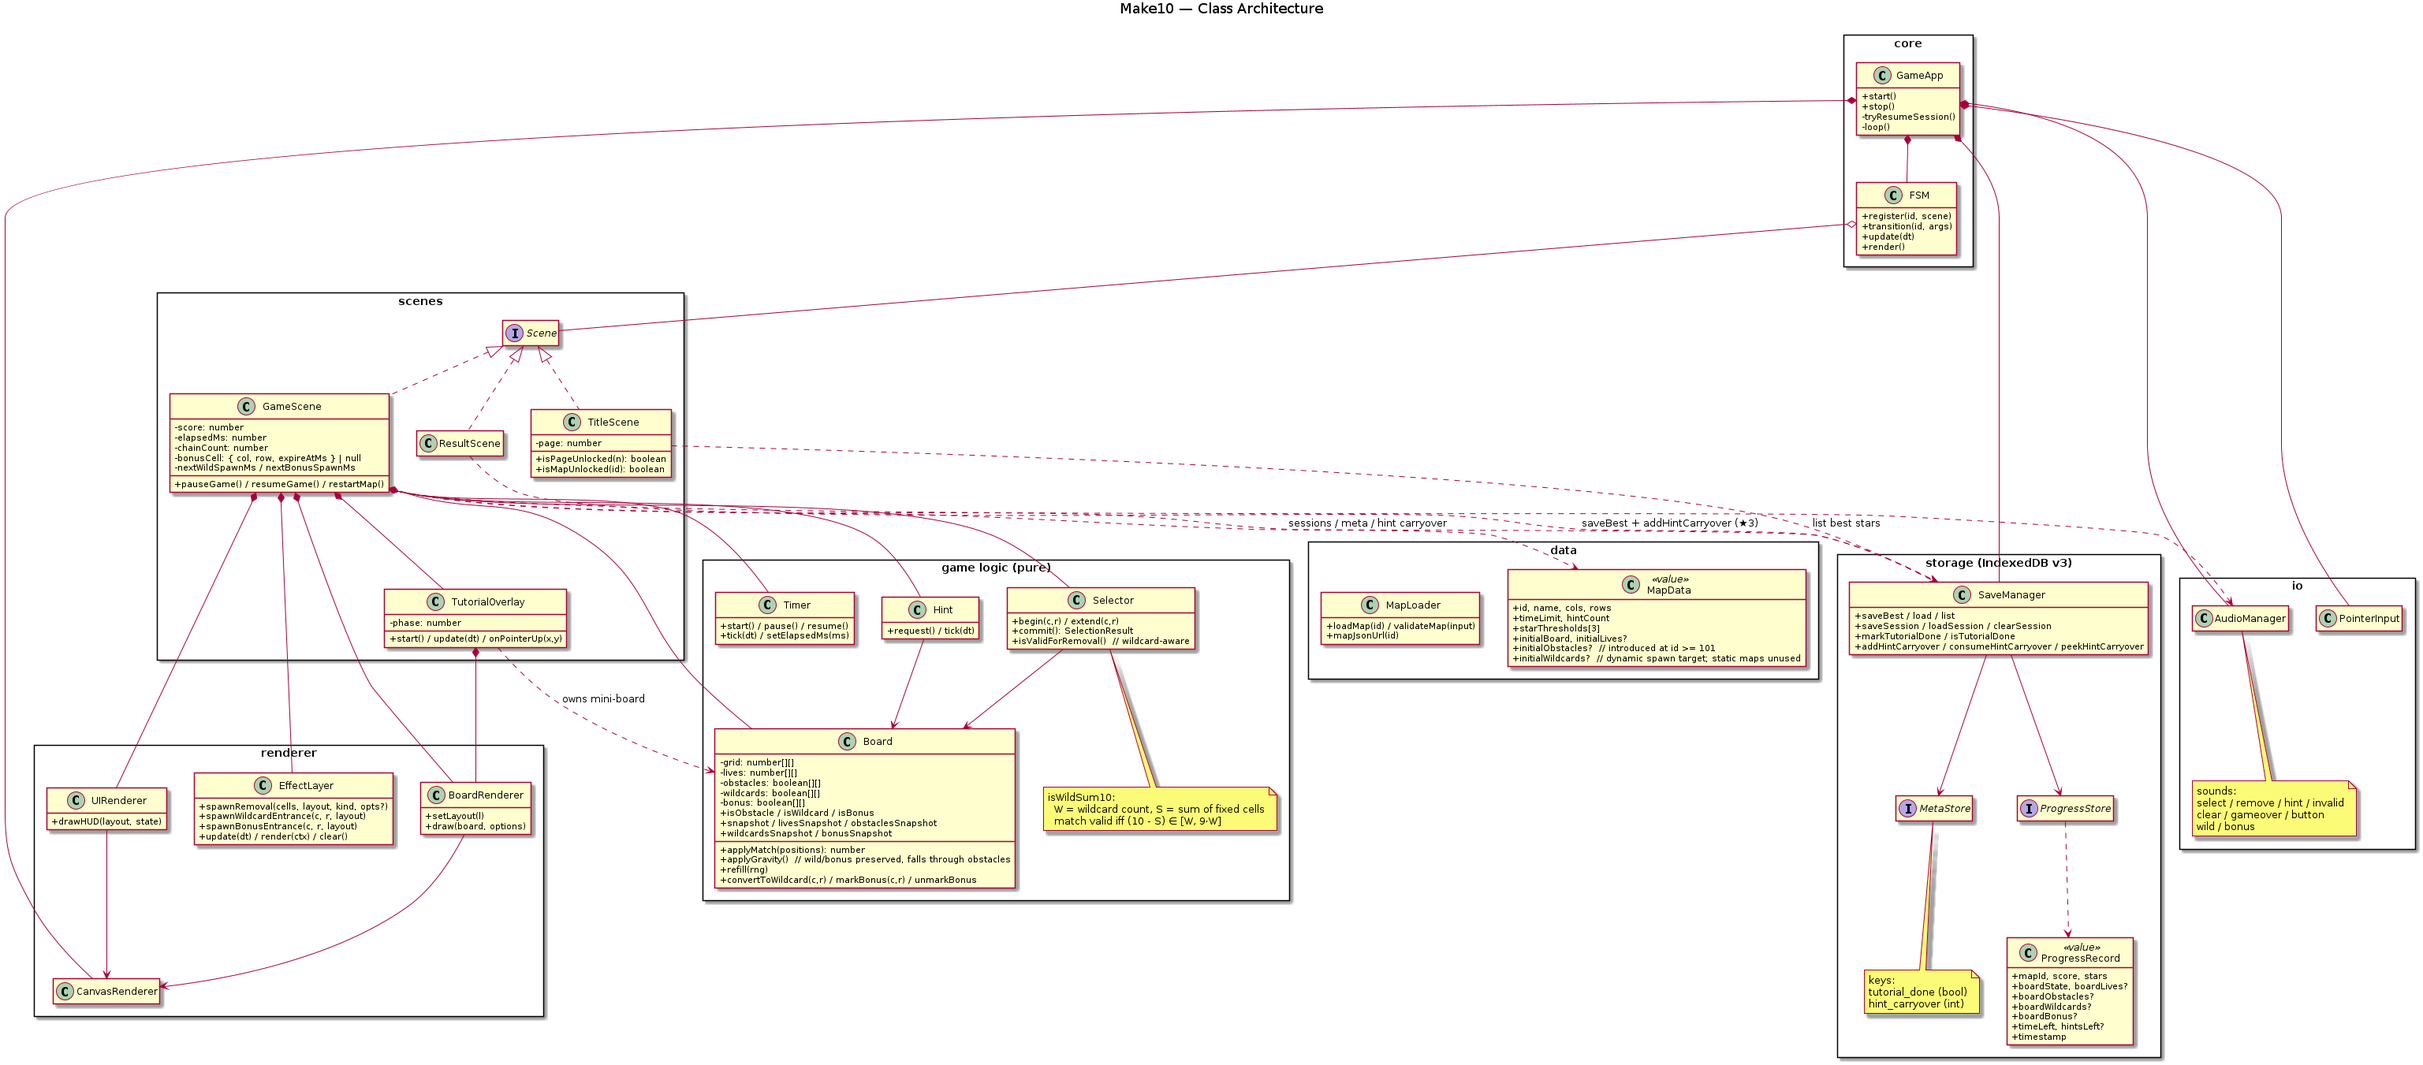
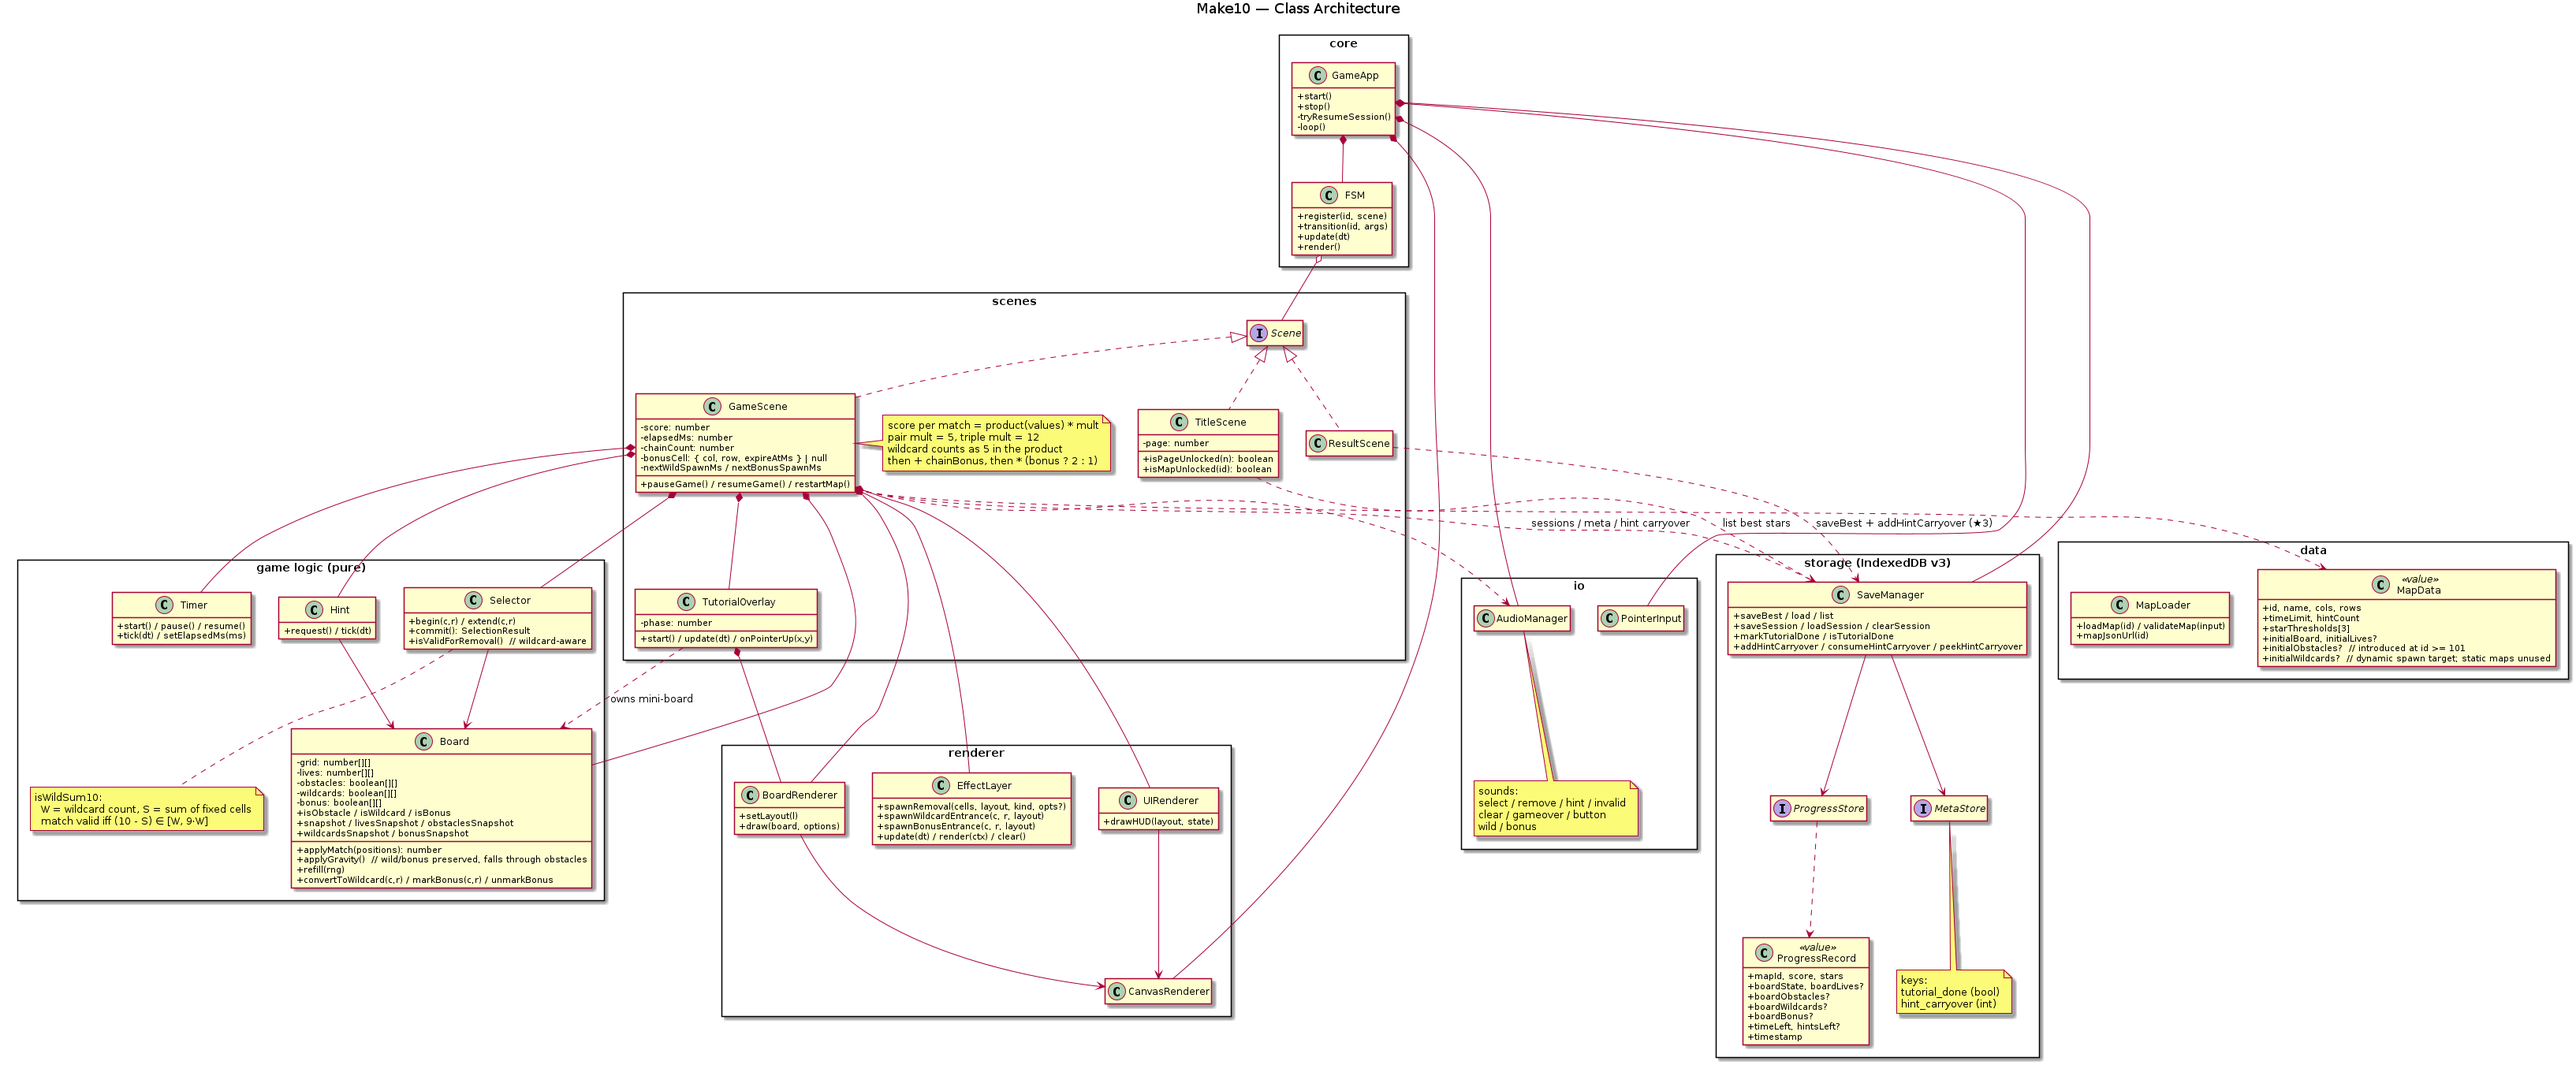
[refactor] 점수식 = 셀 값들의 곱 × 매치 크기 배수 (2셀×5 / 3셀×12)
- 베이스 점수가 셀 값에 비례하도록 변경 — 이전(100/300 고정) 평균과 유사한 범위 유지.
- 만능(?) 블럭은 곱셈에 5(=1~9 의 기대값) 로 참여.
- EffectLayer popup 은 항상 실제 점수 표기 (scoreOverride).
- UML(sequence-match, class-architecture) + README 점수 섹션 갱신.

diff --git a/tests/gameScene.test.ts b/tests/gameScene.test.ts
@@ -171,14 +171,14 @@ describe("GameScene", () => {
     scene.onPointerDown!(a.x, a.y);
     scene.onPointerMove!(b.x, b.y);
     scene.onPointerUp!(b.x, b.y);
-    // 2x1 + 모두 1 리필 → stuck, 점수 100 → ★★ (≥150 아님, ≥50 맞음 → ★1)
+    // 2x1 + 모두 1 리필 → stuck, 점수 4×6×5=120 → ≥50, <150 → ★1.
     const res = transitions[transitions.length - 1].args as GameResult;
     assertEqual(res.stars, 1);
     assertTrue(res.cleared);
     assertEqual(res.starThresholds[0], 50);
   });
 
-  test("합 10 드래그 → remove 사운드 + 점수 +100 + 보드 리필로 가득 유지", async () => {
+  test("합 10 드래그 → remove 사운드 + 점수 가산 + 보드 리필로 가득 유지", async () => {
     const r = makeFakeRenderer();
     const { context, audioCalls } = makeCtx(r);
     // RNG=0 → 리필 값은 모두 1 (2x1 맵에서는 1+1=2라 유효 조합 없음 → stuck)
@@ -456,7 +456,7 @@ describe("GameScene", () => {
         timeLimit: 60,
         hintCount: 0,
         targetScore: 0,
-        // ★1 임계값을 한 번의 쌍 제거 점수(100)보다 높게 → stuck 시 cleared=false 예측 가능.
+        // ★1 임계값을 한 번의 쌍 제거 점수(3×7×5=105)보다 높게 → stuck 시 cleared=false 예측 가능.
         starThresholds: [200, 500, 1000],
         initialBoard: [
           [3, 7],
@@ -1109,8 +1109,8 @@ describe("GameScene + 매치 이펙트", () => {
     assertTrue(effects.hasActive());
   });
 
-  test("점수: 2셀 +100 / 3셀 +300 (3셀이 동수의 2셀 매치보다 우월)", async () => {
-    // 2셀 매치 한 번
+  test("점수: 2셀=곱×5 / 3셀=곱×12 (특정 조합에서 3셀이 동수의 2셀 매치보다 우월)", async () => {
+    // 2셀 매치 — [4, 6] → 4×6×5 = 120
     const r1 = makeFakeRenderer();
     const { context: ctx1 } = makeCtx(r1);
     const sceneP = new GameScene(ctx1, () => 0, 0);
@@ -1122,9 +1122,9 @@ describe("GameScene + 매치 이펙트", () => {
     sceneP.onPointerDown!(lP.originX + lP.cellSize / 2, lP.originY + lP.cellSize / 2);
     sceneP.onPointerMove!(lP.originX + lP.cellSize * 1.5, lP.originY + lP.cellSize / 2);
     sceneP.onPointerUp!(lP.originX + lP.cellSize * 1.5, lP.originY + lP.cellSize / 2);
-    assertEqual(sceneP._getScore(), 100);
+    assertEqual(sceneP._getScore(), 120);
 
-    // 3셀 매치 한 번
+    // 3셀 매치 — [3, 3, 4] → 3×3×4×12 = 432 (2셀 두 번=240 보다 큼)
     const tripleMap: MapData = {
       id: 11,
       name: "tri",
@@ -1134,7 +1134,7 @@ describe("GameScene + 매치 이펙트", () => {
       hintCount: 0,
       targetScore: 0,
       starThresholds: [50, 150, 300],
-      initialBoard: [[1, 2, 7]],
+      initialBoard: [[3, 3, 4]],
     };
     const r2 = makeFakeRenderer();
     const { context: ctx2 } = makeCtx(r2);
@@ -1148,8 +1148,8 @@ describe("GameScene + 매치 이펙트", () => {
     sceneT.onPointerMove!(lT.originX + lT.cellSize * 1.5, lT.originY + lT.cellSize / 2);
     sceneT.onPointerMove!(lT.originX + lT.cellSize * 2.5, lT.originY + lT.cellSize / 2);
     sceneT.onPointerUp!(lT.originX + lT.cellSize * 2.5, lT.originY + lT.cellSize / 2);
-    assertEqual(sceneT._getScore(), 300);
-    // 명시적 우월성: 3셀 한 번 > 2셀 두 번
+    assertEqual(sceneT._getScore(), 432);
+    // 명시적 우월성: 3셀 한 번 > 2셀 두 번 (3·3·4·12=432 > 2·120=240)
     assertTrue(sceneT._getScore() > 2 * sceneP._getScore());
   });
 
@@ -1353,8 +1353,8 @@ describe("GameScene + 보너스(×2) 블럭", () => {
     scene.onPointerDown!(a.x, a.y);
     scene.onPointerMove!(b.x, b.y);
     scene.onPointerUp!(b.x, b.y);
-    // 베이스 100 × 2 = 200 (연쇄 없음, 첫 매치).
-    assertEqual(scene._getScore(), 200);
+    // 베이스 4×6×5=120, 보너스 ×2 → 240 (연쇄 없음, 첫 매치).
+    assertEqual(scene._getScore(), 240);
     // 매치 후 보너스 셀이 파괴됨 → bonusCell null.
     assertEqual(scene._getBonusCell(), null);
   });
@@ -1381,8 +1381,8 @@ describe("GameScene + 보너스(×2) 블럭", () => {
     scene.onPointerDown!(a.x, a.y);
     scene.onPointerMove!(b.x, b.y);
     scene.onPointerUp!(b.x, b.y);
-    // (0,0)+(1,0) = 4+6=10 매치. 보너스는 (2,0)이라 미포함 → 일반 100점.
-    assertEqual(scene._getScore(), 100);
+    // (0,0)+(1,0) = 4+6=10 매치. 보너스는 (2,0)이라 미포함 → 4×6×5 = 120.
+    assertEqual(scene._getScore(), 120);
   });
 
   test("자동 스폰 타이머: 12초 경과 시 보너스 1개 활성 (rand=0.5 → 11s 인터벌)", async () => {
@@ -1606,20 +1606,21 @@ describe("GameScene + 연쇄 보너스", () => {
     await scene.enter({ map: chainMap() });
     scene.render();
     dragTopPair(scene);
-    assertEqual(scene._getScore(), 100);
+    // chainMap 의 (0,0)+(1,0)=4+6 → 4×6×5 = 120
+    assertEqual(scene._getScore(), 120);
   });
 
-  test("1초 이내 두 번째 매치: +50 보너스 (총 100 + 150 = 250)", async () => {
+  test("1초 이내 두 번째 매치: +50 보너스 (총 120 + 170 = 290)", async () => {
     const { scene } = makeChainScene();
     await scene.enter({ map: chainMap() });
     scene.render();
-    dragTopPair(scene); // 100 (chain=1)
+    dragTopPair(scene); // 120 (chain=1)
     scene.render();
-    dragTopPair(scene); // +150 (chain=2, base 100 + bonus 50)
-    assertEqual(scene._getScore(), 250);
+    dragTopPair(scene); // +170 (chain=2, base 120 + bonus 50)
+    assertEqual(scene._getScore(), 290);
   });
 
-  test("1초 초과 갭: 연쇄 끊김 (총 200, 보너스 없음)", async () => {
+  test("1초 초과 갭: 연쇄 끊김 (총 240, 보너스 없음)", async () => {
     const { scene } = makeChainScene();
     await scene.enter({ map: chainMap() });
     scene.render();
@@ -1627,10 +1628,10 @@ describe("GameScene + 연쇄 보너스", () => {
     scene.update(1100); // 1초 + 마진 → 윈도우 밖
     scene.render();
     dragTopPair(scene);
-    assertEqual(scene._getScore(), 200);
+    assertEqual(scene._getScore(), 240);
   });
 
-  test("3연쇄: +50, +100 누적 (100+150+200=450)", async () => {
+  test("3연쇄: +50, +100 누적 (120+170+220=510)", async () => {
     const { scene } = makeChainScene();
     await scene.enter({ map: chainMap() });
     scene.render();
@@ -1639,14 +1640,15 @@ describe("GameScene + 연쇄 보너스", () => {
     dragTopPair(scene);
     scene.render();
     dragTopPair(scene);
-    assertEqual(scene._getScore(), 450);
+    assertEqual(scene._getScore(), 510);
   });
 
-  test("연쇄 보너스 캡: 6연쇄부터 보너스 +250 고정 (delta 350)", async () => {
+  test("연쇄 보너스 캡: 6연쇄부터 보너스 +250 고정 (delta 370)", async () => {
     const { scene } = makeChainScene();
     await scene.enter({ map: chainMap() });
     let prev = 0;
-    const expectDeltas = [100, 150, 200, 250, 300, 350, 350];
+    // 베이스 120 + 연쇄보너스(50, 100, 150, 200, 250, 250, 250) = 120, 170, 220, 270, 320, 370, 370
+    const expectDeltas = [120, 170, 220, 270, 320, 370, 370];
     for (let i = 0; i < expectDeltas.length; i++) {
       scene.render();
       dragTopPair(scene);
@@ -1675,12 +1677,12 @@ describe("GameScene + 연쇄 보너스", () => {
     dragTopPair(scene);
     scene.render();
     dragTopPair(scene); // 연쇄 활성
-    assertEqual(scene._getScore(), 250);
+    assertEqual(scene._getScore(), 290);
     (scene as unknown as { restartMap(): void }).restartMap();
     (scene as unknown as { _dismissIntro(): void })._dismissIntro();
     scene.render();
     dragTopPair(scene);
-    assertEqual(scene._getScore(), 100); // 보너스 없음
+    assertEqual(scene._getScore(), 120); // 보너스 없음
   });
 });
 

diff --git a/src/scenes/GameScene.ts b/src/scenes/GameScene.ts
@@ -54,8 +54,11 @@ export interface GameResult {
   readonly starThresholds: readonly [number, number, number];
 }
 
-const SCORE_PAIR = 100;
-const SCORE_TRIPLE = 300;
+/** 매치 점수 = 셀 값들의 곱 × 셀 개수별 배수. 만능(?)은 WILD_VALUE 로 환산. */
+const SCORE_PAIR_MULT = 5;
+const SCORE_TRIPLE_MULT = 12;
+/** 만능(?) 블럭의 점수 환산 값 — 매치 시 곱셈에 5 로 참여 (1~9 의 기대값). */
+const WILD_VALUE = 5;
 const DEFAULT_INTRO_MS = 2500;
 /** 연쇄(chain) 인정 윈도우 — 직전 매치로부터 이 시간 안에 다음 매치를 성공시키면 연쇄. */
 const CHAIN_WINDOW_MS = 1000;
@@ -771,13 +774,16 @@ export class GameScene implements Scene {
     const result = this.selector.commit();
     if (result.valid) {
       // 매치 적용 전 보드 좌표/lives/bonus 캡처 → 실제로 lives→0 으로 파괴된 셀과 보너스 적중 판단.
+      // 점수 산출도 applyMatch 가 셀 값을 0으로 비우기 전에 미리 계산해 두어야 한다.
       const boardLayout = this.boardRenderer.getLayout();
       const positions = result.positions;
       const preLives: number[] = [];
       let hitBonus = false;
+      let product = 1;
       for (const [c, r] of positions) {
         preLives.push(this.board.getLives(c, r));
         if (this.board.isBonus(c, r)) hitBonus = true;
+        product *= this.board.isWildcard(c, r) ? WILD_VALUE : this.board.getCell(c, r);
       }
       this.board.applyMatch(positions);
       const destroyed: Array<readonly [number, number]> = [];
@@ -791,7 +797,9 @@ export class GameScene implements Scene {
       const within = this.elapsedMs - this.lastMatchAtMs <= CHAIN_WINDOW_MS;
       this.chainCount = within ? this.chainCount + 1 : 1;
       this.lastMatchAtMs = this.elapsedMs;
-      const baseScore = positions.length === 2 ? SCORE_PAIR : SCORE_TRIPLE;
+      // 베이스 점수 — 셀 값들의 곱에 매치 크기별 배수. 만능(?)은 WILD_VALUE 로 환산.
+      const baseScore =
+        product * (positions.length === 2 ? SCORE_PAIR_MULT : SCORE_TRIPLE_MULT);
       const chainBonus =
         this.chainCount >= 2
           ? Math.min(CHAIN_BONUS_CAP, CHAIN_BONUS_STEP * (this.chainCount - 1))
@@ -799,10 +807,11 @@ export class GameScene implements Scene {
       // 보너스(×2) 적중: 베이스+연쇄 합계에 배수 적용.
       const subtotal = baseScore + chainBonus;
       const total = hitBonus ? subtotal * BONUS_MULTIPLIER : subtotal;
+      // 베이스가 동적이므로 항상 scoreOverride 로 실제 점수 표기.
       this.effects.spawnRemoval(destroyed, boardLayout, positions.length === 3 ? "triple" : "pair", {
         chainBonus: chainBonus > 0 ? chainBonus : undefined,
         chainDepth: chainBonus > 0 ? this.chainCount : undefined,
-        scoreOverride: hitBonus || chainBonus > 0 ? total : undefined,
+        scoreOverride: total,
         multiplier: hitBonus ? BONUS_MULTIPLIER : undefined,
       });
       this.board.applyGravity();

diff --git a/tests/integration.test.ts b/tests/integration.test.ts
@@ -267,7 +267,7 @@ describe("Integration: Title → Game → Result", () => {
       timeLimit: 60,
       hintCount: 0,
       targetScore: 0,
-      starThresholds: [50, 150, 300], // ★1 컷=50 → 한 번 매치(100점)면 ★★
+      starThresholds: [50, 150, 300], // ★1 컷=50 → 한 번 매치(4×6×5=120점)면 ★1
       initialBoard: [[4, 6]],
     };
     const { ctx, fsm, saveManager } = buildContext(() => winMap);
@@ -291,7 +291,7 @@ describe("Integration: Title → Game → Result", () => {
     await Promise.resolve();
     await Promise.resolve();
     assertEqual(fsm.getCurrentId(), "result");
-    // 점수 100 ≥ ★1=50 → cleared=true, stars=1
+    // 점수 120 ≥ ★1=50, <★2=150 → cleared=true, stars=1
     const res = (fsm.getCurrent() as unknown as { result: GameResult | null }).result;
     assertTrue(res !== null);
     assertTrue(res!.cleared);
@@ -304,7 +304,7 @@ describe("Integration: Title → Game → Result", () => {
     const saved = await saveManager.load(7);
     assertTrue(saved !== null, "saveBest 로 점수가 저장되어야 함");
     assertEqual(saved!.stars, 1);
-    assertEqual(saved!.score, 100);
+    assertEqual(saved!.score, 120);
 
     // 타이틀로 → bestStars 에 7번 맵의 ★1 반영
     const size = ctx.renderer.getSize();
@@ -453,6 +453,7 @@ describe("Integration: Title → Game → Result", () => {
       timeLimit: 60,
       hintCount: 0,
       targetScore: 0,
+      // ★1 컷을 한 쌍 매치(3×7×5=105)보다 높게 → stuck 시 cleared=false 보장.
       starThresholds: [200, 500, 1000],
       initialBoard: [
         [3, 7],

diff --git a/README.md b/README.md
@@ -17,10 +17,13 @@
 
 ### 점수 & 별점
 
-- **2셀 매치 +100**, **3셀 매치 +300**.
+- **베이스 점수 = 셀 값들의 곱 × 매치 크기 배수**
+  - 2셀: `값1 × 값2 × 5` (예: 4+6 → 4×6×5 = **120**)
+  - 3셀: `값1 × 값2 × 값3 × 12` (예: 3+3+4 → 3×3×4×12 = **432**)
+  - **만능(?) 블럭은 곱셈에 5 로 참여** (1~9 의 기대값).
 - **연쇄(chain) 보너스**: 직전 매치로부터 **1초 이내**에 다음 매치를 성공하면 누적 보너스 적용.
   - 2연쇄 +50 / 3연쇄 +100 / 4연쇄 +150 / 5연쇄 +200 / **6연쇄 이상 +250 (cap)**.
-  - 보너스는 베이스 점수 + 연쇄 보너스 + (보너스 블럭 적중 시 ×2) 순으로 합산.
+  - 최종 점수 = `(베이스 + 연쇄 보너스) × (보너스 블럭 적중 시 2, 아니면 1)`.
 - **별 3개 단계**: 맵 시작 시 ★/★★/★★★ 목표 점수를 안내. 종료 시 최종 점수로 별 개수 결정.
   - ★ 이상이면 성공으로 기록되며 타이틀 화면에 별이 표시됩니다.
   - **★★★ 클리어 시 다음 판 힌트 +1 (영속 carryover)**.
@@ -28,7 +31,7 @@
 ### 매치 이펙트
 
 매치 시 셀 제거에 시각 피드백:
-- 베이스: 방사형 파티클(중력+마찰) + `+100`/`+300` 점수 팝업.
+- 베이스: 방사형 파티클(중력+마찰) + 실제 획득 점수(`+값`) 팝업.
 - 3셀: 파티클 더 많고 골드 팔레트 + 외곽/내부 2겹 확장 링.
 - 연쇄: 베이스 위에 `⚡ +50 x2` 형태의 하늘색 배지 추가.
 - 보너스 적중(×2): 무지개 팔레트 파티클 + `× 2` 핑크 배지 + 핑크 링.
@@ -94,7 +97,7 @@
 
 - **출현 빈도**: 매판 **10–12초 사이 랜덤 인터벌**로 1개 등장 (한 번에 1개만 활성).
 - **윈도우**: 등장 후 **2–5초 안에 매치**해야 ×2 적용. 시간 초과 시 자동 해제(보드의 일반 셀로 복귀).
-- **점수**: `(베이스 + 연쇄 보너스) × 2`. 예) 3연쇄 3셀 + 보너스 적중 = `(300 + 100) × 2 = 800`.
+- **점수**: `(베이스 + 연쇄 보너스) × 2`. 예) 3연쇄(2셀) 4+6 + 보너스 적중 = `(120 + 100) × 2 = 440`.
 - **시각화**: 셀 배경이 **HSL 회전 무지개 그라데이션**(매 프레임 갱신) + 흰 외곽선 + 좌상단 `×2` 배지.
   - 등장 시 18입자 무지개 수렴 + 핑크/노랑 2겹 링 + 전용 사운드.
 
